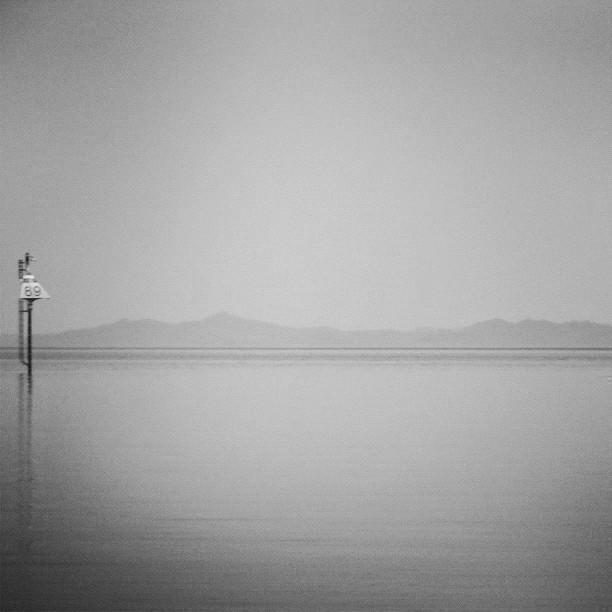
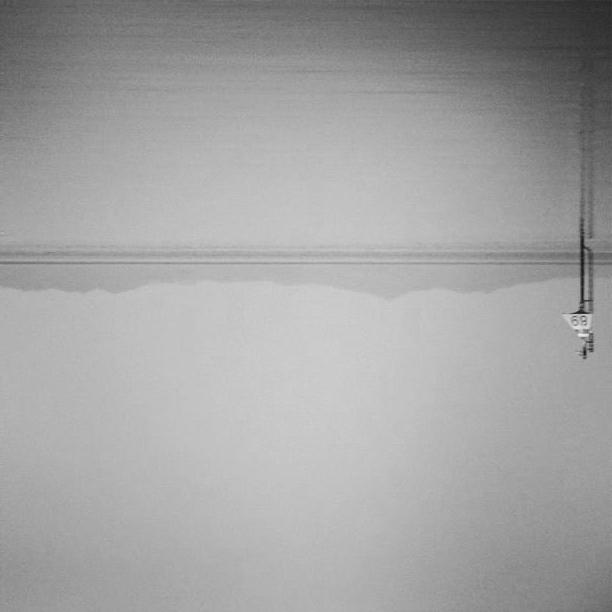
IMAGEFLIP not imagefilter

diff --git a/ajax/edit_image.php b/ajax/edit_image.php
@@ -16,7 +16,7 @@ if (isset($_POST['image'])){
 		// Edit image
 		switch($edit) {
 			case "mirror":
-				$editsuccess = imagefilter($image, IMG_FLIP_BOTH, NULL);
+				$editsuccess = imageflip($image, IMG_FLIP_BOTH);
 				break;
 
 			case "greyscale":
